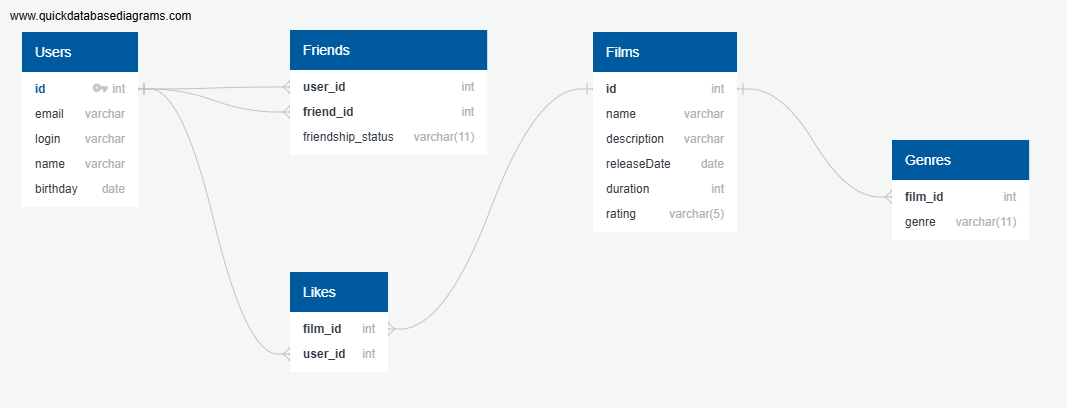
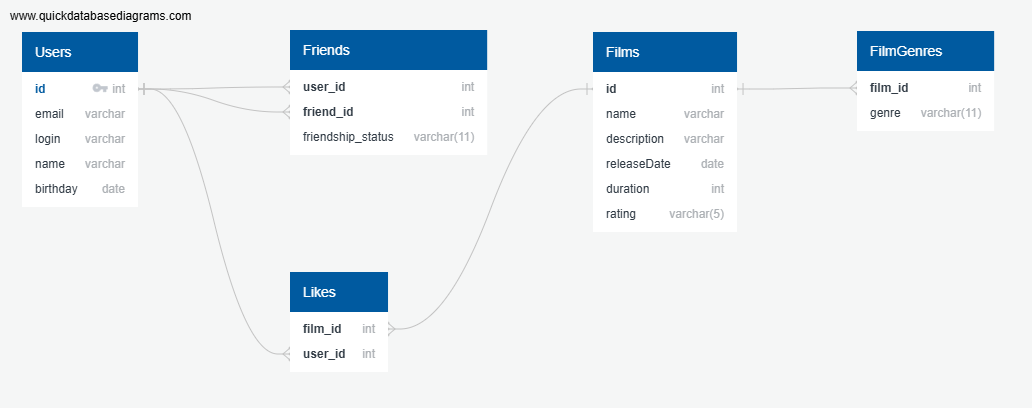
feat: доработал описание модели БД по комментарию от ревьера

diff --git a/README.md b/README.md
@@ -60,8 +60,12 @@ SELECT f.name, COUNT(l.user_id) count_likes
  GROUP BY f.name 
  ORDER BY count_likes desc
 ```
-### Таблица **Genres** 
-Хранит жанры, которым принадлежит фильм.
+### Таблица **FilmGenres** 
+Является таблицей связи фильмов и жанров. 
+Хранит жанры, которым принадлежат различные фильм.
+Для одного фильма может быть указано несколько жанров.
+Ключа в данной таблице нет. Одному фильму может быть присвоено несколько жанров.
+Одному жанру могут соответствовать несколько разных фильмов.
 
 ### Таблица **Likes** 
 Хранит лайки поставленные фильму пользователями.
